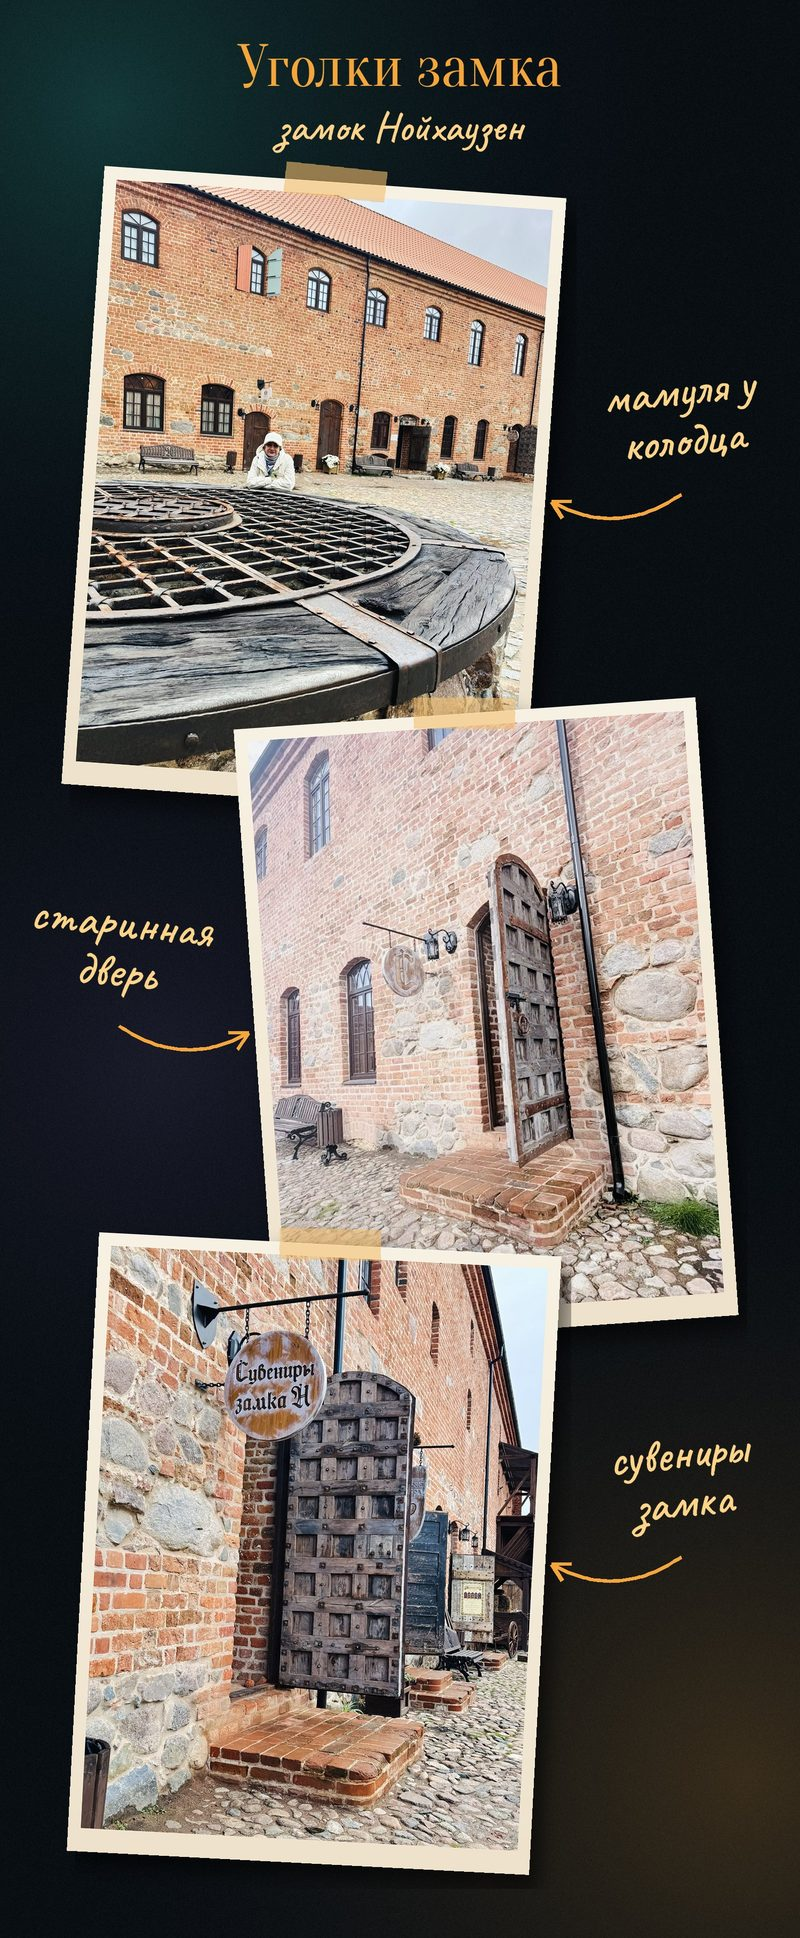
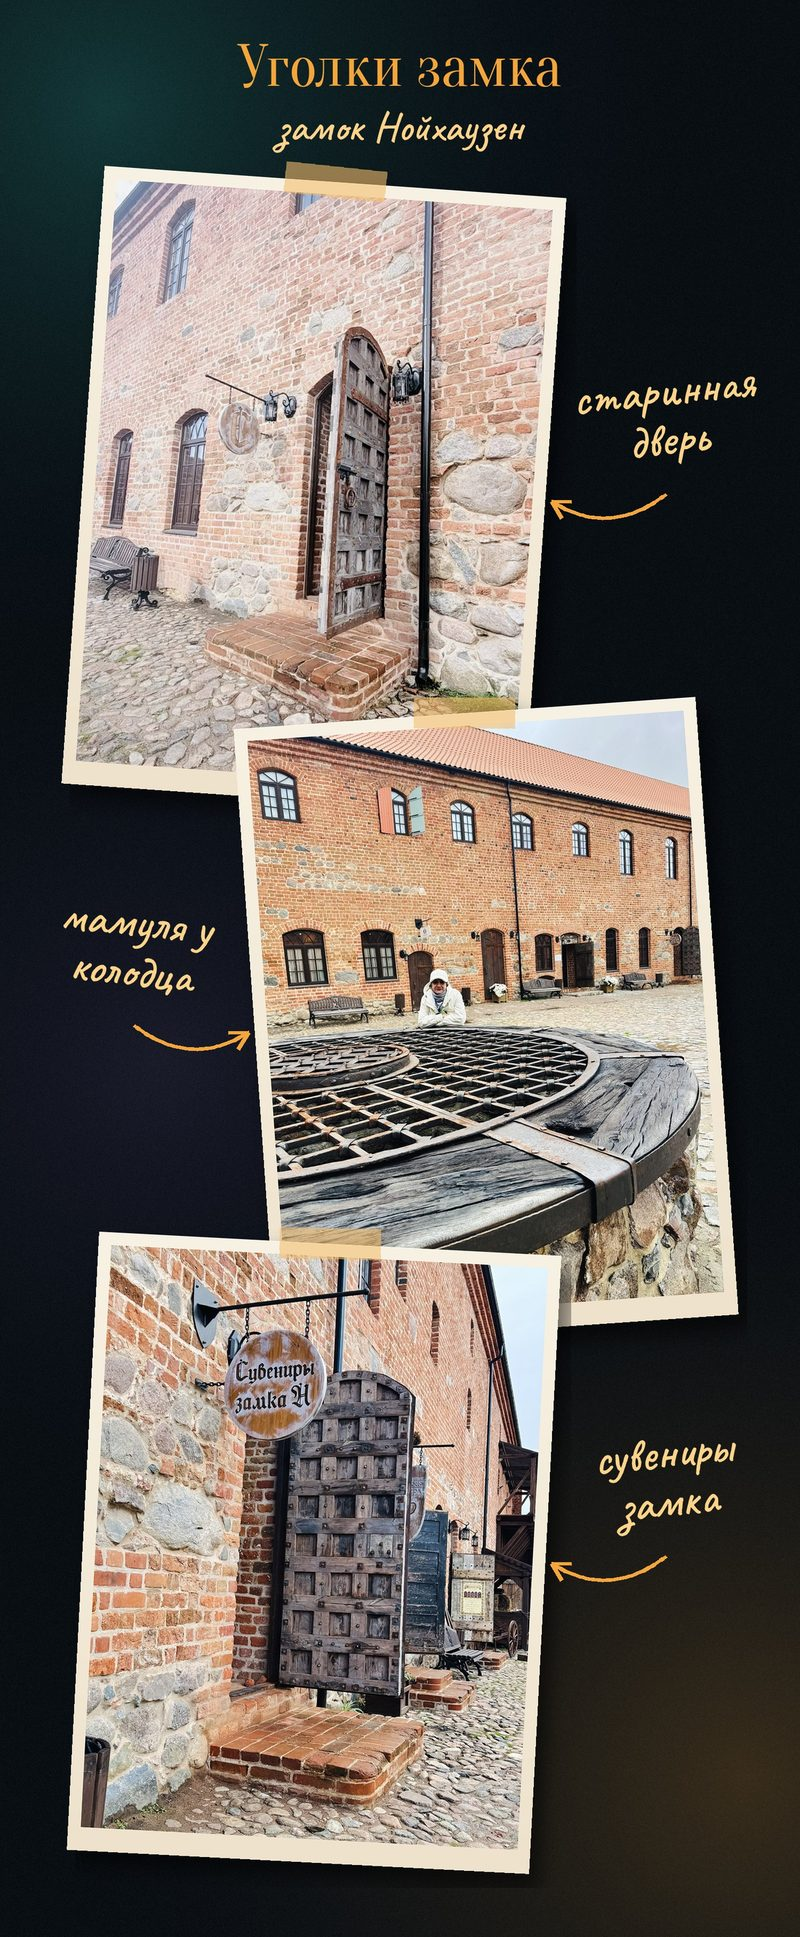
Альбом «Калининград»: страница «Уголки замка» — мамуля в центре
По просьбе: сверху «старинная дверь», в центре «мамуля у колодца», снизу «сувениры замка».

Claude-Session: https://claude.ai/code/session_01BUmNQ2Kk9fTi5P6tnA3gYJ

diff --git a/kaliningrad/album/index.html b/kaliningrad/album/index.html
@@ -685,7 +685,7 @@ body.picking .wrap{padding-bottom:calc(var(--nav-h) + 230px + env(safe-area-inse
  {"id": "d2-50", "day": 2, "type": "video", "src": "photos/d2-50.mp4?v=2", "poster": "photos/d2-50.jpg", "thumb": "photos/t/d2-50.jpg", "w": 720, "h": 1280, "dur": 5.5, "muted": true, "place": "neuh", "title": "Надвратная башня снизу вверх", "date": "2026-10-12"},
  {"id": "d2-23", "day": 2, "src": "photos/d2-23.jpg", "thumb": "photos/t/d2-23.jpg", "w": 2000, "h": 452, "place": "neuh", "title": "Панорама двора замка", "date": "2026-10-12"},
  {"id": "d2-87", "day": 2, "src": "photos/d2-87.jpg?v=2", "thumb": "photos/t/d2-87.jpg?v=2", "w": 1200, "h": 2906, "place": "neuh", "title": "Рассказ гида", "date": "2026-10-12", "collage": true},
- {"id": "d2-88", "day": 2, "src": "photos/d2-88.jpg", "thumb": "photos/t/d2-88.jpg", "w": 1200, "h": 2906, "place": "neuh", "title": "Уголки замка", "date": "2026-10-12", "collage": true},
+ {"id": "d2-88", "day": 2, "src": "photos/d2-88.jpg?v=2", "thumb": "photos/t/d2-88.jpg?v=2", "w": 1200, "h": 2906, "place": "neuh", "title": "Уголки замка", "date": "2026-10-12", "collage": true},
  {"id": "d2-89", "day": 2, "src": "photos/d2-89.jpg", "thumb": "photos/t/d2-89.jpg", "w": 1200, "h": 2906, "place": "neuh", "title": "Таверна «Орден гуся»", "date": "2026-10-12", "collage": true},
  {"id": "d2-90", "day": 2, "src": "photos/d2-90.jpg", "thumb": "photos/t/d2-90.jpg", "w": 1200, "h": 2906, "place": "neuh", "title": "Осень в замке", "date": "2026-10-12", "collage": true},
  {"id": "d2-32", "day": 2, "src": "photos/d2-32.jpg", "thumb": "photos/t/d2-32.jpg", "w": 1500, "h": 2000, "place": "neuh", "title": "С мамулей у парка альпак, чёрно-белое", "date": "2026-10-12"},
